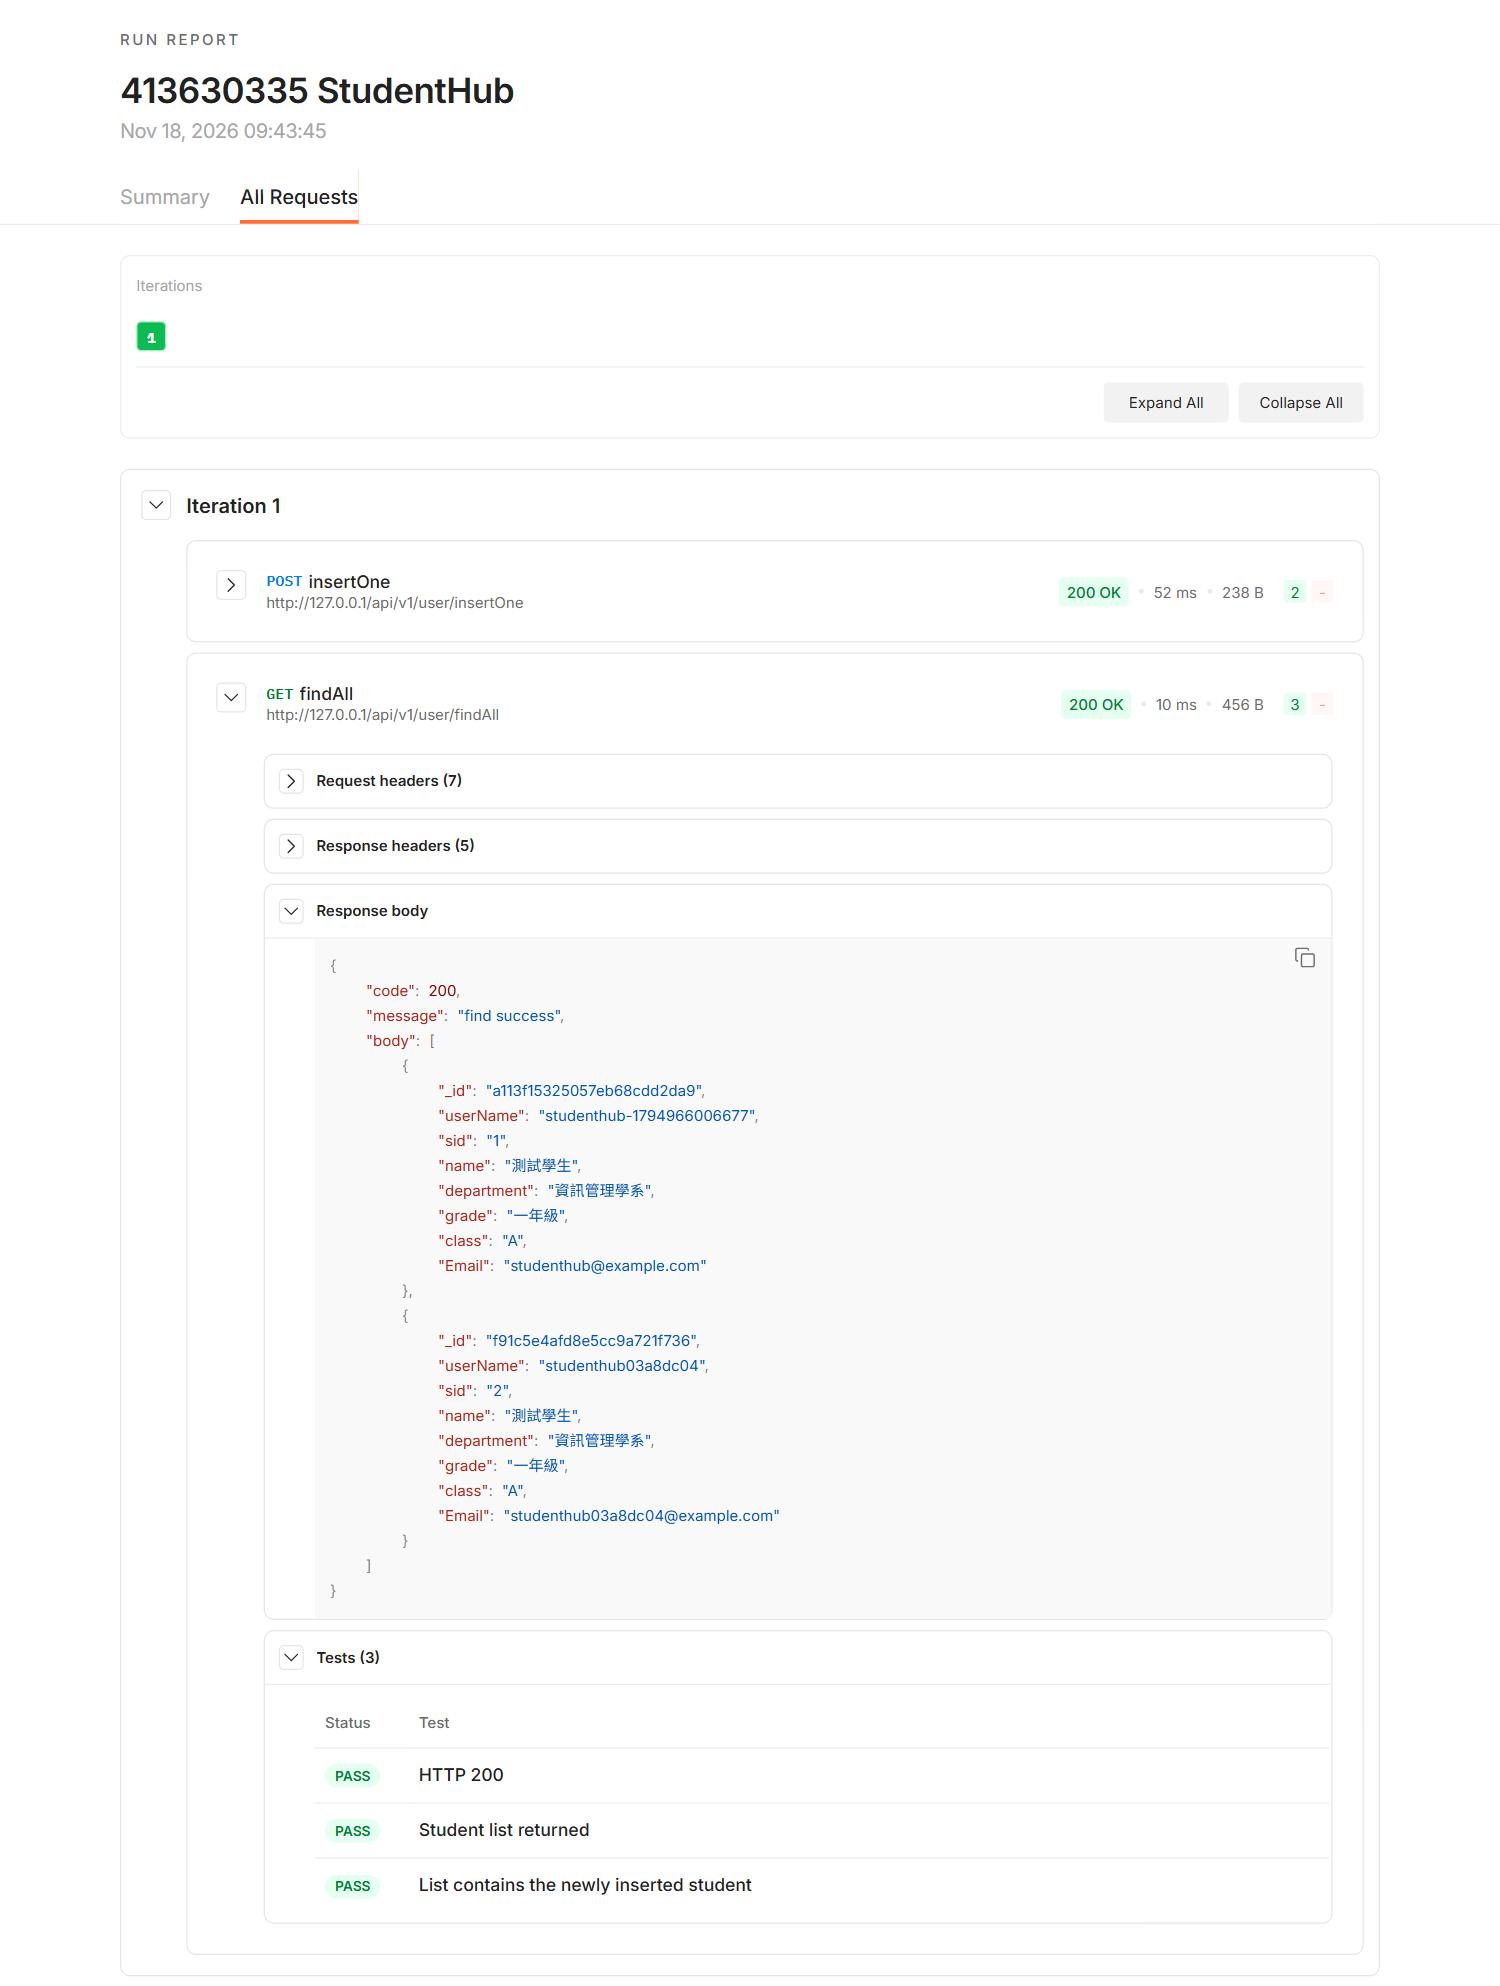
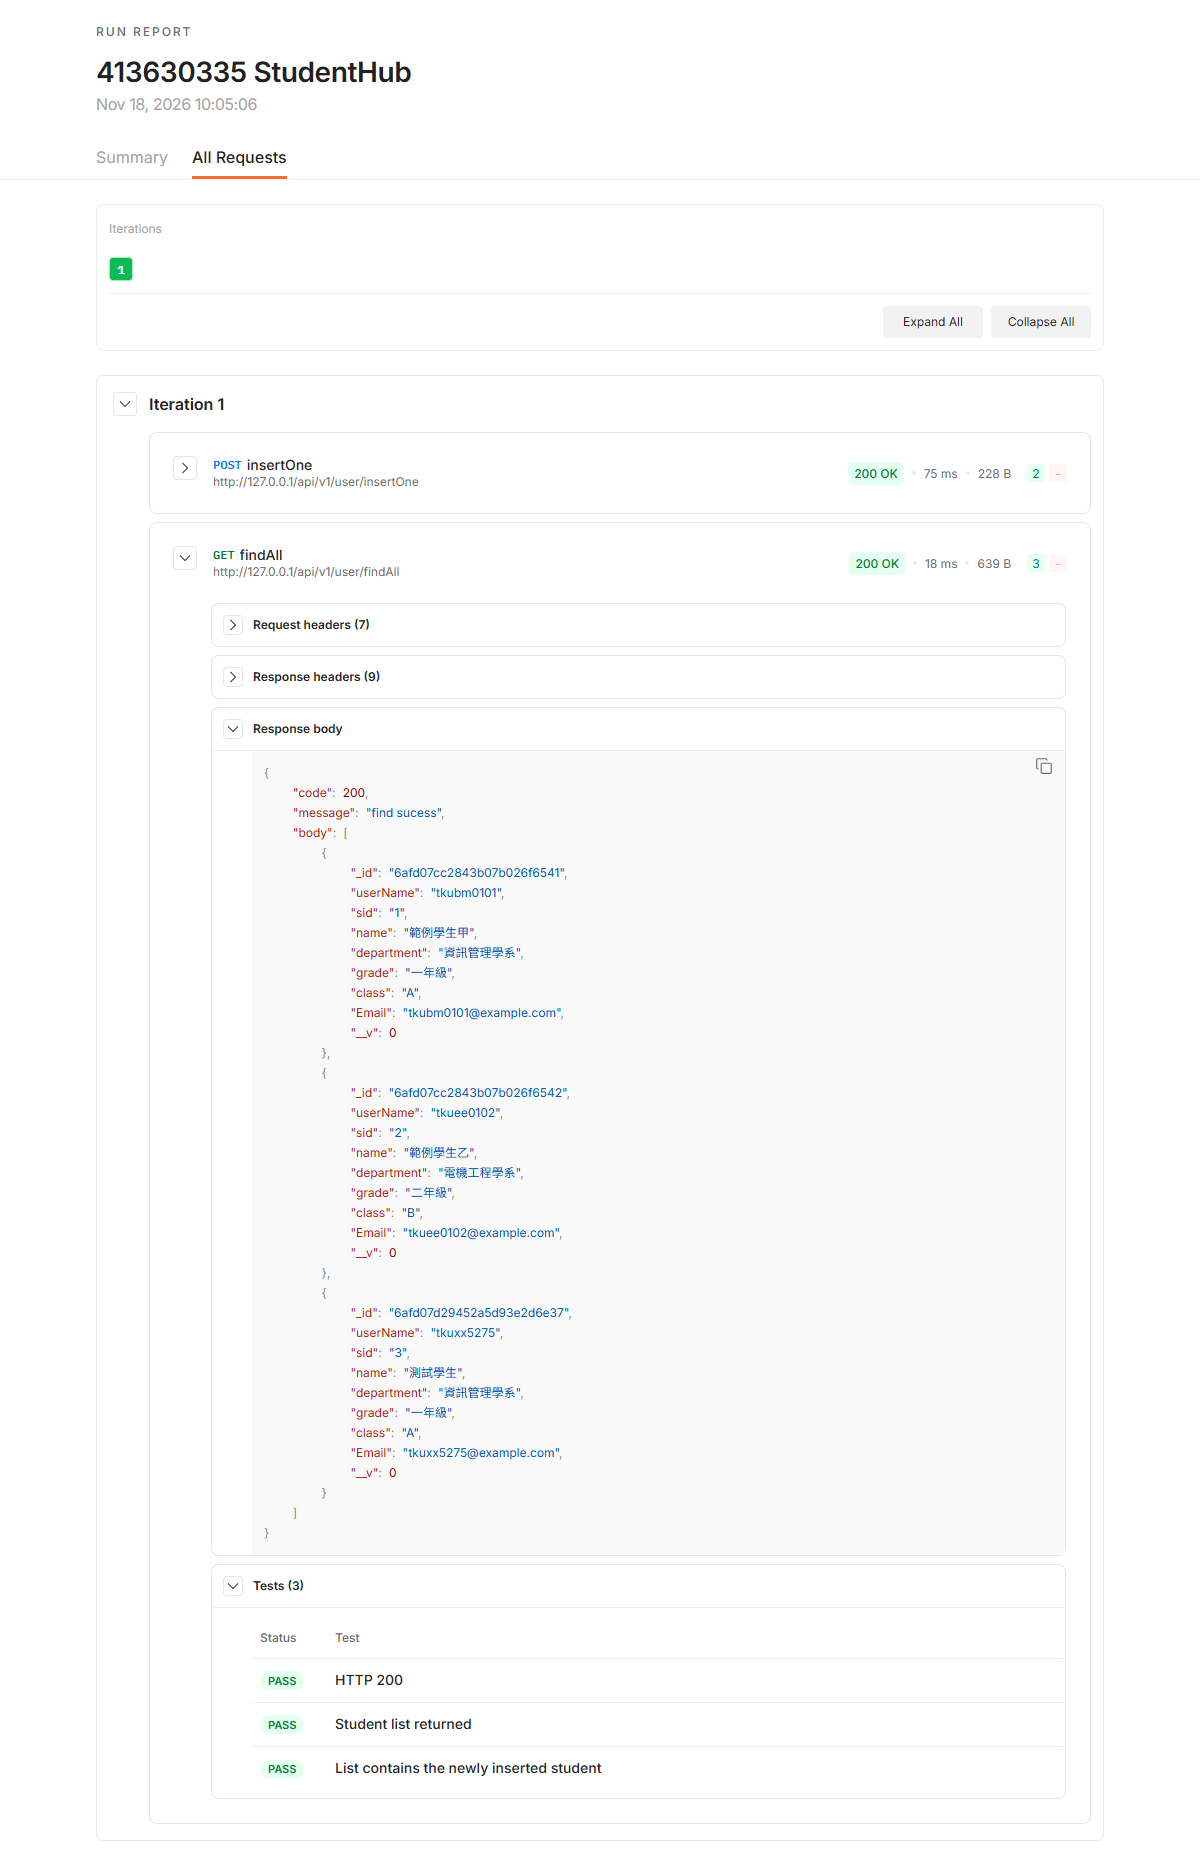
Verify course StudentHub against MongoDB

diff --git a/README.md b/README.md
@@ -35,3 +35,10 @@ npm start
 | GET | `/api/v1/user/findAll` | HTTP 200，清單包含剛新增的學生 |
 
 範例帳號符合老師規定的 `tku + 科系縮寫 + 四碼座號`。若選到已存在的座號，重新執行新增請求即可產生另一個座號。
+
+## 實測截圖
+
+使用 MongoDB 8，以官方 Postman CLI 測試 `http://127.0.0.1:8877`。兩個請求都回傳 `200 OK`，五項斷言通過，React 頁面也顯示了剛新增的資料。
+
+- [findAll 測試截圖](screenshots/postman-findAll.png)
+- [insertOne 測試截圖](screenshots/postman-insertOne.png)
